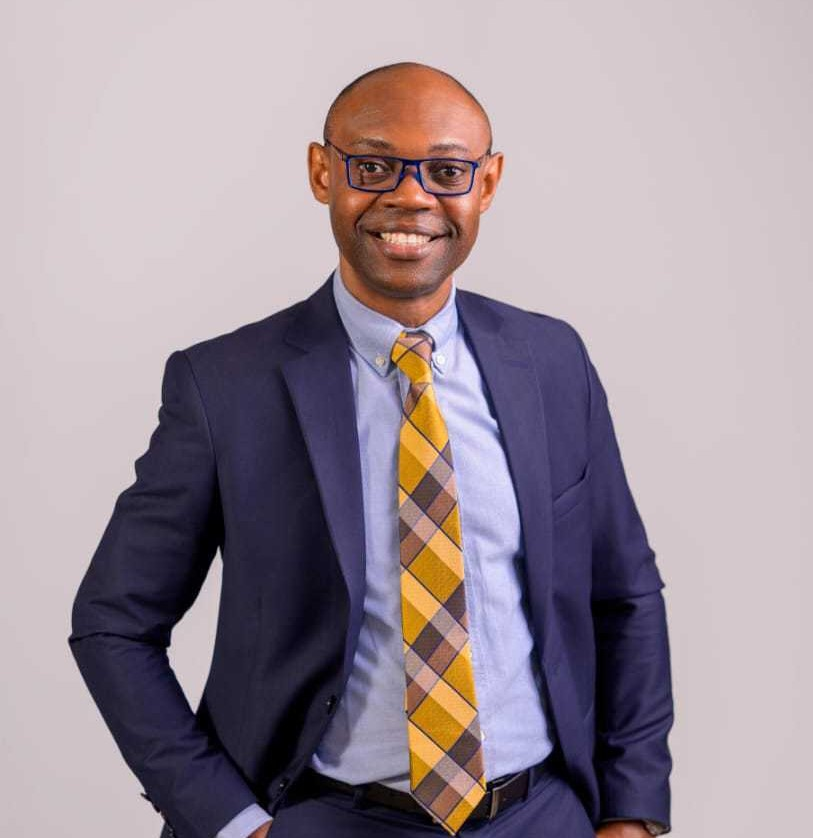
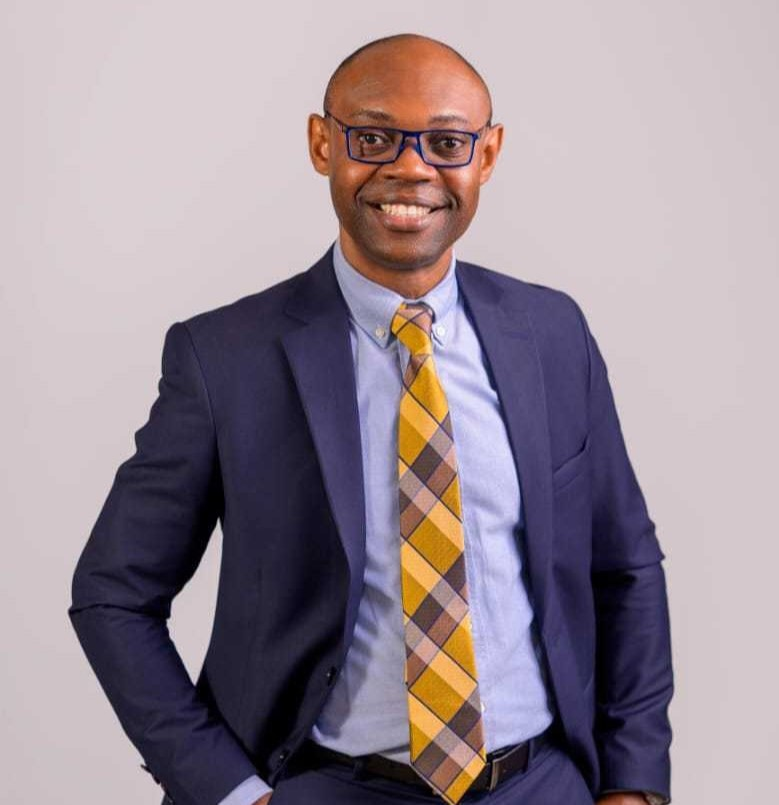
feat: update team member details and localization strings
- Replaced Flore Mayele with Marrion Ntumba in the team member list.
- Updated roles for team members in both English and French localization files.
- Changed photo file for Ansarry Mulumba to a new JPG format for consistency.

diff --git a/locales/fr.ts b/locales/fr.ts
@@ -268,15 +268,14 @@ export default {
   "team.stats.licensed": "Agréé Banque Centrale du Congo",
   "team.members.eyebrow": "Membres",
   "team.members.title": "Notre équipe",
-  "team.members.ibrahim.role": "Chief Executive Officer",
+  "team.members.ibrahim.role": "Country Manager",
   "team.members.ansarry.role": "Chief Operating Officer",
-  "team.members.flore.role": "Sales Manager",
+  "team.members.marion.role": "Sales Manager",
   "team.members.raissa.role": "Administrative Officer",
-  "team.members.felix.role": "Accoutant",
+  "team.members.felix.role": "Finance Administrative Assistant",
   "team.members.raman.role": "Senior Accountant",
-  "team.members.krys.role": "IT Support",
+  "team.members.krys.role": "Tech Support",
   "team.members.bill.role": "Finance Manager",
-  "team.members.samuel.role": "Cleaner",
   "team.pillars.eyebrow": "Nos pôles",
   "team.pillars.title": "Les expertises qui portent AvadaPay",
   "team.pillars.compliance.title": "Conformité",

diff --git a/locales/en.ts b/locales/en.ts
@@ -267,15 +267,14 @@ export default {
   "team.stats.licensed": "Approved by the Central Bank of Congo",
   "team.members.eyebrow": "Members",
   "team.members.title": "Our team",
-  "team.members.ibrahim.role": "Chief Executive Officer",
+  "team.members.ibrahim.role": "Country Manager",
   "team.members.ansarry.role": "Chief Operating Officer",
-  "team.members.flore.role": "Sales Manager",
+  "team.members.marion.role": "Sales Manager",
   "team.members.raissa.role": "Administrative Officer",
-  "team.members.felix.role": "Accoutant",
+  "team.members.felix.role": "Finance Administrative Assistant",
   "team.members.raman.role": "Senior Accountant",
-  "team.members.krys.role": "IT Support",
+  "team.members.krys.role": "Tech Support",
   "team.members.bill.role": "Finance Manager",
-  "team.members.samuel.role": "Cleaner",
 
   "team.pillars.title": "The expertise behind AvadaPay",
   "team.pillars.compliance.title": "Compliance",

diff --git a/app/[locale]/qui-sommes-nous/page.tsx b/app/[locale]/qui-sommes-nous/page.tsx
@@ -59,9 +59,9 @@ const teamMembers = [
     photo: "/images/teams/ansarry-mulumba.jpg",
   },
   {
-    name: "Flore MAYELE",
-    roleKey: "team.members.flore.role",
-    photo: "/images/teams/flore-mayele.png",
+    name: "Marrion NTUMBA",
+    roleKey: "team.members.marion.role",
+    photo: "/images/teams/marion.jpg",
   },
   {
     name: "Raissa NGOYA",
